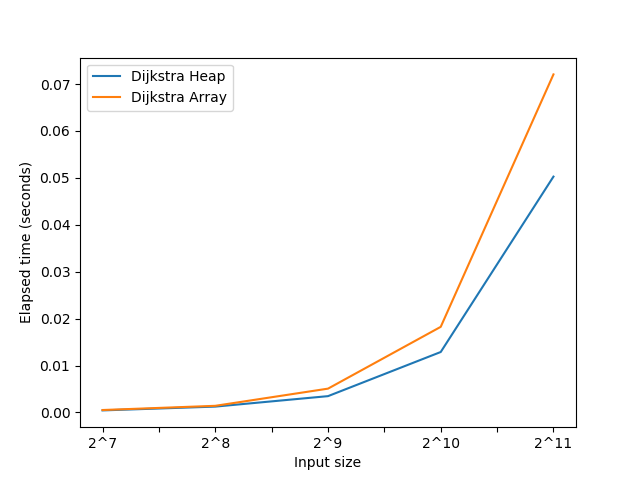
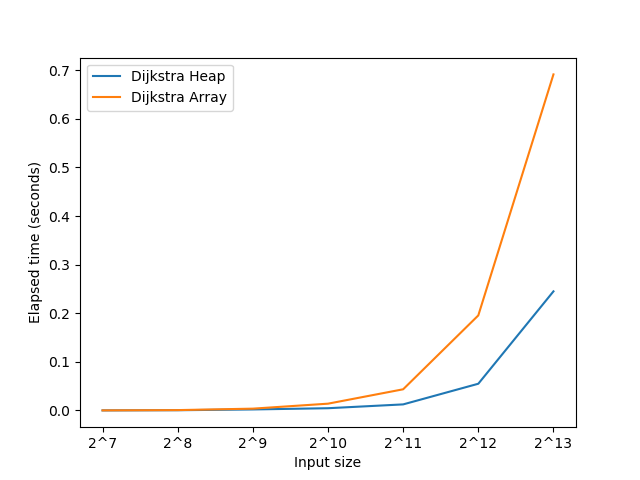
changed test sizes.

diff --git a/05_dijkstra/tests/test_dijkstra.c b/05_dijkstra/tests/test_dijkstra.c
@@ -1,7 +1,7 @@
 #include <graph.h>
 #include <time.h>
 //#include <common/test_set.h>
-#define NUM_TESTS 5
+#define NUM_TESTS 7
 void int_printer(const void *value)
 {
     printf("%d", (((node_type *)value)->key));
@@ -63,7 +63,7 @@ int main(int argc, char *argv[])
     for (size_t i = 7; i < NUM_TESTS + 7; i++)
     {
         size_t num_nodes = 2 << i;
-        int num_of_adjacents = 3 * num_nodes / 4;
+        int num_of_adjacents = 1 * num_nodes / 7;
         int *keys = allocate_int_random_array(num_nodes);
 
         graph_type *graph = create_graph(num_nodes, keys);
